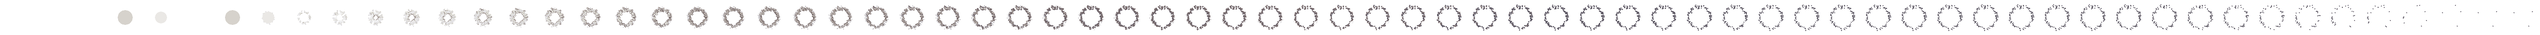
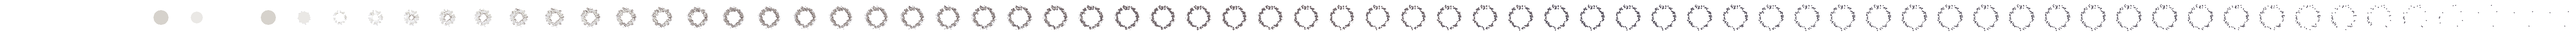
added smash effects

Changed region(s): [[0.0311, 0.15, 0.9338, 0.84], [0.9027, 0.63, 0.9338, 0.66]]

diff --git a/gamemode.cpp b/gamemode.cpp
@@ -166,7 +166,8 @@ GameMode::GameMode(int type, Game& game, PlayerClass playerClass, GameMeta gameL
 	texBloodSplatter3(createTexture("res/blood_splatter3.png")),
 	texBloodSplatter4(createTexture("res/blood_splatter4.png")),
 	texBloodSplatter5(createTexture("res/blood_splatter5.png")),
-	siegingIcon(createTexture("res/sieging_icon.png"))
+	siegingIcon(createTexture("res/sieging_icon.png")),
+	texSmash(createTexture("res/smash_animation.png"))
 {
 	if (type == MODE_STORY) {
 		tileMap.loadMap(this, "res/maps/level0.csv");
@@ -407,7 +408,8 @@ GameMode::GameMode(int type, Game& game, PlayerClass playerClass, GameMeta gameL
 	rageFX.create(texRage, { 0,0, 100, 100 }, 56);
 	rageFX.setAnimSpeed(56);
 	rageFX.setScale(0.75, 0.75);
-
+	smashFX = loadEffect(texSmash, { 0,0,100,100 }, 72, 60);
+	getEffectSprite(smashFX).setScale(1.5, 1.5);
 	//healing items
 	healingFX.create(texHealAnimation, { 0, 0, 38, 39 }, 20);
 	healingFX.setAnimSpeed(20);
@@ -2586,11 +2588,35 @@ void GameMode::slasher_smash() {
 		sf::Vector2f difference = playerPos - enemyPos;
 		float length = sqrt((difference.x * difference.x) + (difference.y * difference.y));
 
-		if (length < 100)
+		if (length < 80) {
 			enemy.damage(30);
+			bloodEffect = rand() % 5 + 1;
+			switch (bloodEffect) {
+			case 1:
+				bloodSplatter = loadEffect(texBloodSplatter1, { 0,0,100,100 }, 23, 60);
+				break;
+			case 2:
+				bloodSplatter = loadEffect(texBloodSplatter2, { 0,0,100,100 }, 22, 60);
+				break;
+			case 3:
+				bloodSplatter = loadEffect(texBloodSplatter3, { 0,0,100,100 }, 23, 60);
+				break;
+			case 4:
+				bloodSplatter = loadEffect(texBloodSplatter4, { 0,0,100,100 }, 14, 60);
+				break;
+			case 5:
+				bloodSplatter = loadEffect(texBloodSplatter5, { 0,0,100,100 }, 30, 60);
+				break;
+			}
+			getEffectSprite(bloodSplatter).setScale(0.45, 0.45);
+			createEffect(bloodSplatter, enemy.getPosition());
+		}
+
 	}
 
 	smashSound.play();
+
+	createEffect(smashFX, { player.getPosition().x-60, player.getPosition().y-60});
 
 	abilityTimer1.restart();
 

diff --git a/gamemode.hpp b/gamemode.hpp
@@ -80,6 +80,7 @@ protected:
 	sf::Texture& texBloodSplatter3;
 	sf::Texture& texBloodSplatter4;
 	sf::Texture& texBloodSplatter5;
+	sf::Texture& texSmash;
 
 	// Music
 	sf::Music music;
@@ -140,6 +141,7 @@ protected:
 	AnimSprite guardianWingsFX;
 	AnimSprite deadEyeFX;
 	AnimSprite dashFX;
+	EffectID smashFX;
 
 	// interactions
 	sf::SoundBuffer doorOpen;
